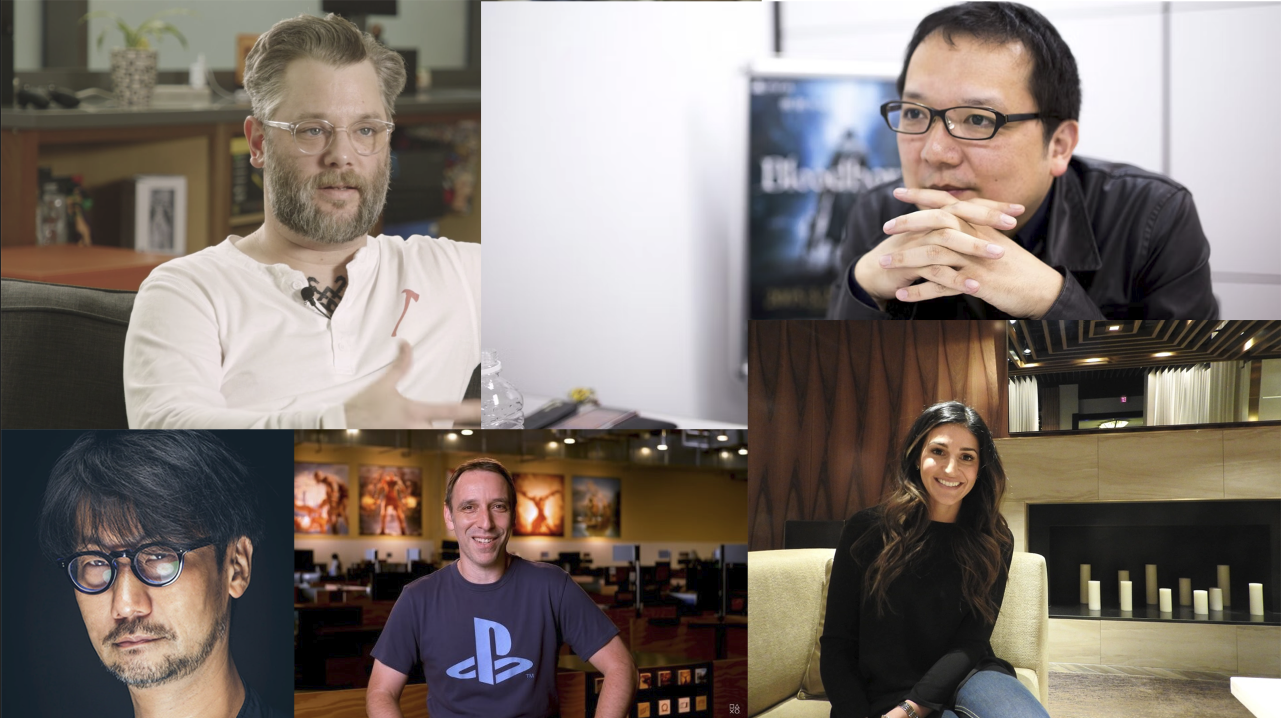
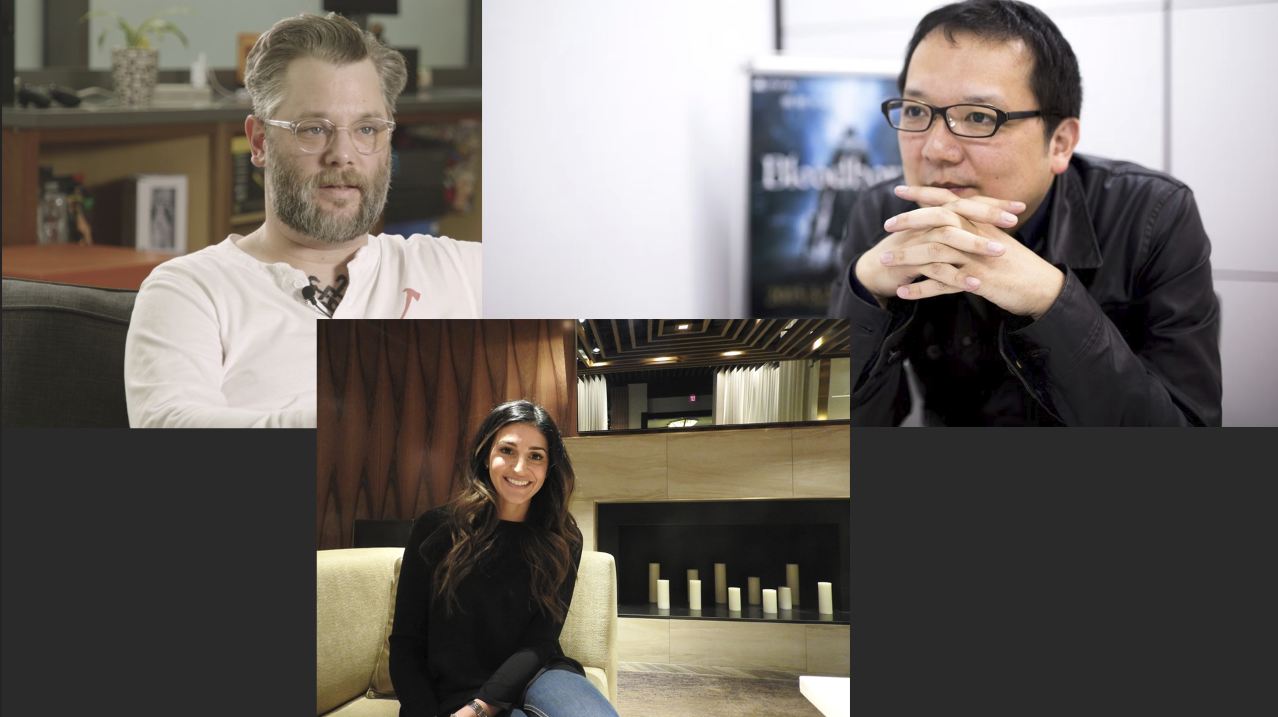
Second Commit

diff --git a/index.html b/index.html
@@ -40,22 +40,21 @@
         <div class="Container">
             <div class="Row">
                 <div class="About-Col-1">
-                    <img src="ImagesPRJ/BorDekker.png" alt="Photo Of Bor Dekker">
-                    <img src="ImagesPRJ/GameIndustryHeroes.png" alt="Photos of Bor Dekker's game industry heroes including, Cory Barlog, Eric Williams, Hidetaka Miyazaki, Maja Moldenhauer and Hideo Kojima">
+                    <img src="ImagesPRJ/BDimage.png" alt="Photo Of Bor Dekker">
                     <img src="ImagesPRJ/Rover.JPG" alt="Photo of Bor Dekker's dog called Rover">
                 </div>
                 <div class="About-Col-2">
                     <h2 class="Sub-Title">About <span>Me</span></h2>
                     <p>I'm Bor Dekker, an 19-year-old Unreal Engine 5 game developer from the Netherlands.
                         <br>
-                        I specialize in Unreal Engine 5, Blueprints and C++. I would like to have some experience in working with MetaHuman.
+                        I specialize in Unreal Engine 5, Blueprints and C++. I would like to have experience working with MetaHuman & more experience working with Houdini in Unreal Engine 5.
                         <br><br>
-                        Games like, Bloodborne, God Of War, Elden Ring, Castlevania, Cuphead have inspired me to create video games.
+                        I would love it if I can create games like Bloodborne, Layers of Fear, Lies of P and Black Myth Wukong in Unreal Engine 5. One of my dream projects is making a horror soulslike in Unreal Engine 5, combining my favourite genres into 1 game.
                         <br><br>
-                        My heroes in the game industry include game directors Cory Barlog, Hidetaka Miyazaki, Maja Moldenhauer and the game company Konami.
+                        In my free time, I enjoy playing video games, reading books / manga, watching movies / anime and watching devlogs of people creating their own game(s).
+                        Some of my favorite video games are Bloodborne, Elden Ring, God of War, Cuphead and Layers of Fear.
                         <br><br>
-                        In my free time, I enjoy playing video games, reading books / manga, watching movies / anime, watching devlogs on YouTube and programming.
-                        My top 5 favorite video games are Bloodborne, Elden Ring, God of War, Cuphead and Castlevania Symphony of the Night.
+                        I'm looking for an internship at a company that will help me develop my skills in Unreal Engine 5, Blueprints, C++ and give me some experience working with MetaHuman.
                     </p>
                     <a href="Blog.html" class="SeeMoreBlog">See more</a>
 
@@ -67,12 +66,13 @@
 
                         <div class="Tab-Contents Active-Tab" id="Skills">
                             <ul>
-                                <li><span>Blueprint / C++ / C#</span><br>Programming in these languages</li>
-                                <li><span>Unreal Engine 5</span><br>Creating / developing games in Unreal Engine 5</li>
-                                <li><span>Unity</span><br>Creating / developing games in Unity</li>
+                                <li><span>Blueprint / C++ / C#</span><br>I have experience programming in these languages.</li>
+                                <li><span>Unreal Engine 5</span><br>Creating / developing projects in Unreal Engine 5</li>
+                                <li><span>Unity</span><br>Creating / developing projects in Unity</li>
                                 <li><span>MetaHuman</span><br>I would like to work with it in Unreal and gain experience with it.</li>
-                                <li><span>Perforce</span><br>Putting my UE5 projects on it</li>
-                                <li><span>Github</span><br>Putting my Unity projects on it</li>
+                                <li><span>Houdini</span><br>I have worked with Houdini in Unreal Engine 5.</li>
+                                <li><span>Perforce</span><br>I have experience working with Perforce.</li>
+                                <li><span>Github</span><br>I have experience working with Github.</li>
                             </ul>
                         </div>
                         <div class="Tab-Contents" id="Education">
@@ -83,9 +83,9 @@
                         </div>
                         <div class="Tab-Contents" id="Experience">
                             <ul>
-                                <li><span>No Noise Project | Hilversum Media Park</span><br>February 2023 - April 2023<br>Making a Unreal Engine 5 VR game within a working environment</li>
-                                <li><span>Cargo Crusader Project | Hilversum Media Park</span><br>April 2023 - July 2023<br>Making a Unreal Engine 5 VR game within a working environment</li>
-                                <li><span>Toyboy Tactics Project | Hilversum Media Park</span><br>September 2023 - November 2023<br>Making a Unreal Engine 5 VR game within a working environment</li>
+                                <li><span>No Noise Project | Hilversum Media Park</span><br>February 2023 - April 2023<br>Making a Unreal Engine 5 VR game within a work environment</li>
+                                <li><span>Cargo Crusader Project | Hilversum Media Park</span><br>April 2023 - July 2023<br>Making a Unreal Engine 5 VR game within a work environment</li>
+                                <li><span>Toyboy Tactics Project | Hilversum Media Park</span><br>September 2023 - November 2023<br>Making a Unreal Engine 5 VR game within a work environment</li>
                             </ul>
                         </div>
                 </div>
@@ -100,11 +100,11 @@
         <h2 class="Sub-Title">My <span>Projects</span></h2>
         <div class="Work-List">
             <div class="Work">
-                <img src="ImagesPRJ/DomeDefendersPRJ.png">
-                <a href="DomeDefenders.html">
+                <img src="ImagesPRJ/NoNoiseProject.png">
+                <a href="NoNoise.html">
                     <div class="Layer">
-                        <h3>Dome Defenders</h3>
-                        <p>Space Project</p>
+                        <h3>No Noise Project</h3>
+                        <p>A Unreal Engine 5 VR project where I worked with Houdini for the first time. Our project's goal was to make a VR horror game in Unreal Engine 5.</p>
                     </div>
                 </a>
             </div>
@@ -113,7 +113,7 @@
                 <a href="TowerDefense.html">
                     <div class="Layer">
                         <h3>Tower Defense</h3>
-                        <p>TD Project</p>
+                        <p>A Unity project that I made all by msyelf, including the pixel art. Our project's goal was to make a Tower Defense game in Unity.</p>
                     </div>
                 </a>
             </div>
@@ -122,7 +122,7 @@
                 <a href="Carto.html">
                     <div class="Layer">
                         <h3>Vertical Slice Carto</h3>
-                        <p>Vertical Slice Carto Project</p>
+                        <p>A Unity project where you could pick from a line of games to recreate it in Unity with your team. We chose Carto, our goal was to recreate Carto into Unity.</p>
                     </div>
                 </a>
             </div>
@@ -162,7 +162,7 @@
         </p>
         <br><br>
         <p class="CopyRight">
-            CopyRight by Bor Dekker
+            @CopyRight by Bor Dekker
         </p>
     </footer>
 

diff --git a/NoNoise.html b/NoNoise.html
@@ -1,0 +1,138 @@
+<!DOCTYPE html>
+<html lang="en">
+<head>
+    <meta charset="UTF-8">
+    <meta http-equiv="X-UA-Compatible" content="IE=edge">
+    <meta name="viewport" content="width=device-width, initial-scale=1.0">
+    <title>Project Tower Defense</title>
+
+    <link rel="stylesheet" href="https://cdnjs.cloudflare.com/ajax/libs/font-awesome/6.4.2/css/all.min.css" 
+    integrity="sha512-z3gLpd7yknf1YoNbCzqRKc4qyor8gaKU1qmn+CShxbuBusANI9QpRohGBreCFkKxLhei6S9CQXFEbbKuqLg0DA==" 
+    crossorigin="anonymous" referrerpolicy="no-referrer" />
+
+    <link rel="stylesheet" href="CSS/projectSetUpStyle.css">
+
+    <script src="https://kit.fontawesome.com/c4254e24a8.js" crossorigin="anonymous"></script>
+
+</head>
+<body a link="White" vlink="White">
+    <div id="Header">
+        <div class="Container">
+            <nav>
+                <a href="Projects.html" class="projectsLogo"><i class="fas fa-backspace"></i>Go Back</a>
+            </nav>
+        </div>
+    </div>
+
+<!-----Main----->
+
+    <main>
+        <article>
+            <h1>Project No Noise</h1>
+            <figure>
+                <img src="ImagesGifs-NoNoise/NoNoiseProject.png">
+                <figcaption class="figcaptionC">
+                    Concept monster
+                </figcaption>
+            </figure>
+
+            <h2>
+                What is this project about?
+            </h2>
+            <p class="flexP">
+                No Noise is my first project in Unreal Engine 5 that I've developed in the third period of my second year. In this project, my team and I wanted to create a horror VR game.
+                The project was 10 weeks long, our idea was that you were trapped in a old library and had to escape from a monster. Me and an artist volunteered ourselves to work with Houdini which lookes cool, is super helpful and sounded interesting.
+                <br><br>
+                I tried to learn Houdini by using the Houdini Titan tutorials, but they're not working well for us. Because they weren't explaining it very well, but the artist and I tried our absolute best to learn it. We also had a Houdini expert in this period, but he only came once a week. But we managed to still make something in Houdini and showcase it in our project.
+                <br><br>
+                This game was made with Blueprints, Unreal Engine 5, Maya, Houdini and Perforce.
+                <br><br>
+                Houdini railing tool made by Bor Dekker.
+                <br>
+                <div>
+                    <i class="fab fa-github-square fa-2xl"></i>
+                    <a href="https://github.com/BorDekker/TowerDefenseGame2.0">Project No Noise</a>
+                </div>
+            </p>
+
+            <h2>
+                My role in this project.
+            </h2>
+            <p class="flexP">
+                My role was making a railing tool in Houdini.
+            </p>
+
+            <div class="container">
+                <div class="img-col">
+                    <img class="imgPJ" src="ImagesGifs-NoNoise/HLOProjectTest - RailingTool.gif">
+                    <figcaption>
+                        Railing tool in Unreal Engine 5
+                    </figcaption>
+                </div>
+            </div>
+            <p class="flexP">
+                The reason I wanted to learn Houdini is because of the helpful tools you can make with it, such as railings, bookcases and tables.
+                The process of learning was quite slow in the beginning, since it was my first time using Houdini.
+                Throughout the project we also had some trouble with the license for Houdini, because sometimes when we wanted to test our tool in Unreal. 
+                Our license wouldn't work or activate, even though we already had it. It was going back and forth when it came to our license working.
+            </p>
+
+            <div class="container">
+                <div class="img-col">
+                    <img class="imgPJ" src="ImagesGifs-NoNoise/Audacity.png">
+                    <figcaption>
+                        Audacity app I used for my cutting and editing my sound effects.
+                    </figcaption>
+                </div>
+            </div>
+            <p class="flexP">
+                At the end of the project, I also helped programming and implementing sound efects into our project.
+                I used the Audacity app to cut and edit sound effects, I implemented sound effect for the monster footsteps.
+            </p>
+
+            <div class="container">
+                <div class="img-col">
+                    <img class="imgPJ" src="ImagesGifs-NoNoise/HLOProjectTest-MF_Run_Fwd.gif">
+                    <figcaption>
+                        Implementing the sound effects in an animation for the monster.
+                    </figcaption>
+                </div>
+            </div>
+
+            <h2>
+                Retrospective
+            </h2>
+            <p class="flexP">
+                Working with Houdini was interesting, even when certain things didn't go my way.
+                <br>
+                Houdini does take a lot of time to learn the workflow and the basics of how to make a tool.
+                <br>
+                I wouldn't mind working with this, but then I'd want someone to be there that can help me and guide me into using this Houdini tool.
+                <br>
+                Without the licensing problems and giving me good instructions on what to do and how to do it.
+                <br>
+                Other then that, I enjoyed my time with Houdini. 
+                <br>
+                There are a lot of oppurtunities and pros using it, the cons being that you need a good guide helping you along the way.
+            </p>
+        </article>
+    </main>
+
+    <footer>
+        <p>
+            Bor Dekker
+            <br>
+            bor.dekker@icloud.com <i class="fas fa-envelope"></i>
+            <br>
+            <a href="https://github.com/BorDekker?tab=repositories">Github<i class="fab fa-github-square"></i></a>
+            <br>
+            <a href="https://twitter.com/B0rD3kK3R">X(Twitter)<i class="fab fa-twitter-square"></i></a>
+        </p>
+        <br><br>
+        <p class="CopyRight">
+            @CopyRight by Bor Dekker
+        </p>
+    </footer>
+    
+</body>
+</html>

diff --git a/Blog.html b/Blog.html
@@ -36,7 +36,7 @@
         <div class="Container">
             <div class="Row">
                 <div class="About-Col-1">
-                    <img src="ImagesPRJ/BorDekker.png" alt="Photo Of Bor Dekker">
+                    <img src="ImagesPRJ/BDimage.png" alt="Photo Of Bor Dekker">
                     <img src="ImagesPRJ/GameIndustryHeroes.png" alt="Photos of Bor Dekker's game industry heroes including, Cory Barlog, Eric Williams, Hidetaka Miyazaki, Maja Moldenhauer and Hideo Kojima">
                     <img src="ImagesPRJ/Rover.JPG" alt="Photo of Bor Dekker's dog called Rover">
                     <img src="ImagesPRJ/Gear-Xbox-vs-PS5-1230432282.webp" alt="A PlayStation 5 console and a Xbox console">
@@ -81,7 +81,8 @@
                         <br>
                         I love to play Magic The Gathering and D&D, I'm also a big fan of horror and mysteries. I like to watch comedy shows such as The Office and Star Wars movies/shows.
                         <br><br>
-                        <span>My</span> favorite games are Bloodborne, Elden Ring, God Of War(2018), Cuphead and Castlevania Symphony of the Night.
+                        <span>My</span> favorite games are Bloodborne, Elden Ring, God Of War(2018), Cuphead and Layers of Fear.
+                        <br>
                         I like playing on both consoles, so I can experience both consoles games. This is quite nice when it comes to console exclusive games, such as God Of War Ragnarok and Senua's Saga Hellblade.
                         Now I have the oppurtunity to experience more games that peak my interest.
                     </p>
@@ -102,7 +103,7 @@
         </p>
         <br><br>
         <p class="CopyRight">
-            CopyRight by Bor Dekker
+            @CopyRight by Bor Dekker
         </p>
     </footer>
 

diff --git a/Projects.html b/Projects.html
@@ -49,7 +49,7 @@
         <a href="TowerDefense.html">
             <div class="Layer">
                 <h3>Tower Defense</h3>
-                <p>TD Project</p>
+                <p>A Unity project that I made all by msyelf, including the pixel art. Our project's goal was to make a Tower Defense game in Unity.</p>
             </div>
         </a>
         
@@ -59,16 +59,16 @@
         <a href="Carto.html">
             <div class="Layer">
                 <h3>Vertical Slice Carto</h3>
-                <p>Vertical Slice Carto Project</p>
+                <p>A Unity project where you could pick from a line of games to recreate it in Unity with your team. We chose Carto, our goal was to recreate Carto into Unity.</p>
             </div>
         </a>
     </div>
     <div class="Work">
         <img src="ImagesPRJ/NoNoiseProject.png">
-        <a href="#">
+        <a href="NoNoise.html">
             <div class="Layer">
                 <h3>Project No Noise</h3>
-                <p>Unreal Engine 5 Houdini VR project</p>
+                <p>A Unreal Engine 5 VR project where I worked with Houdini for the first time. Our project's goal was to make a VR horror game in Unreal Engine 5.</p>
             </div>
         </a>
     </div>
@@ -104,7 +104,7 @@
         </p>
         <br><br>
         <p class="CopyRight">
-            CopyRight by Bor Dekker
+            @CopyRight by Bor Dekker
         </p>
     </footer>
     

diff --git a/TowerDefense.html b/TowerDefense.html
@@ -53,6 +53,9 @@
                 Game code made by Bor Dekker.
                 <br>
                 Pixel art made by Bor Dekker.
+                <div>
+                    <a href="https://www.aseprite.org">Aseprite</a>
+                </div>
                 <br>
                 <div>
                     <i class="fab fa-github-square fa-2xl"></i>
@@ -119,7 +122,7 @@
         </p>
         <br><br>
         <p class="CopyRight">
-            CopyRight by Bor Dekker
+            @CopyRight by Bor Dekker
         </p>
     </footer>
     

diff --git a/DomeDefenders.html b/DomeDefenders.html
@@ -31,7 +31,7 @@
             <h1>Dome Defenders</h1>
             <figure>
                 <img src="ImagesPRJ/DomeDefendersPRJ.png">
-                <figcaption>
+                <figcaption class="figcaptionC">
                     Space Project Dome Defenders
                 </figcaption>
             </figure>

diff --git a/style.css b/style.css
@@ -21,7 +21,7 @@ h1{
 #Header{
     width: 100%;
     height: 100vh;
-    background: url(ImagesPRJ/Bloodborne.jpg);
+    background: url(ImagesPRJ/CV.png);
     background-size: cover;
     background-position: center;
 }
